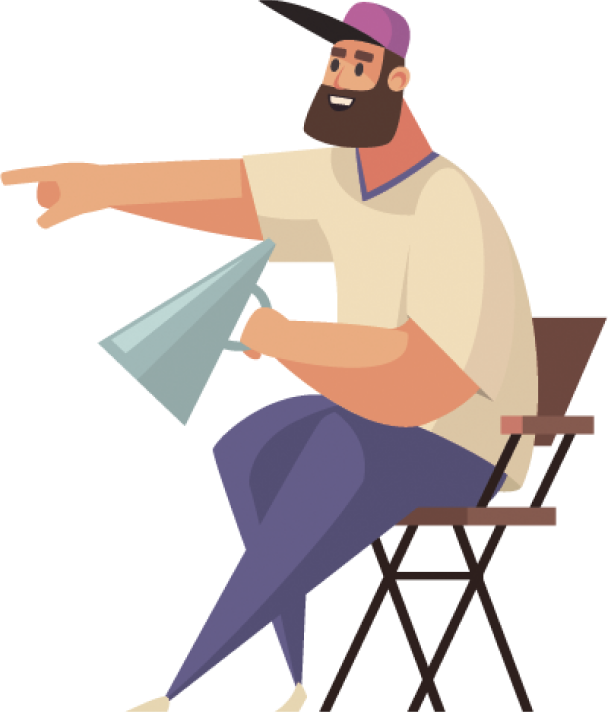
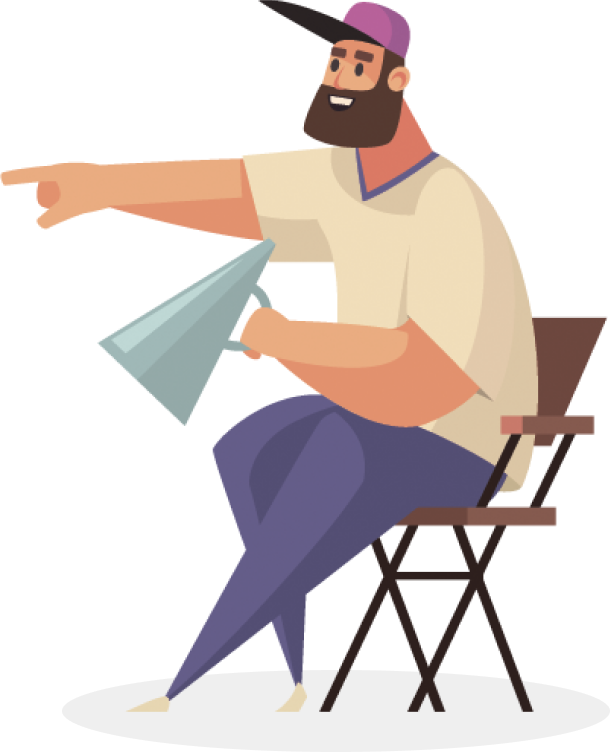
HowToWatchMovie Project (not completed)

Changed region(s): [[0.0, 0.0, 1.0, 1.0], [0.8125, 0.2781, 0.8438, 0.3399], [0.7812, 0.2472, 0.8125, 0.2781]]

diff --git a/index.html b/index.html
@@ -38,7 +38,6 @@
             </div>
             <div class="shadow-position">
                 <img src="./images/person.png" alt="person" class="person-image">
-                <div class="image-shadow"></div>
             </div>
         </div>
         <div class="center-div">
@@ -62,13 +61,11 @@
                 </div>
                 <div class="shadow-position">
                     <img src="./images/person2.png" alt="person2" class="person-2-image">
-                    <div class="image-shadow shadow-size"></div>
                 </div>
             </div>
             <div class="course-second-flex">
                 <div class="shadow-position position-size position-flex-size">
                     <img src="./images/person3.png" alt="person3" class="person-3-image">
-                    <div class="image-shadow shadow-size-2"></div>
                 </div>
                 <div class="course-date-flex">
                     <div class="course-date-div">

diff --git a/css/style.css b/css/style.css
@@ -29,7 +29,7 @@ header{
 
 .header-main-div{
     display: flex;
-    width: 75%;
+    width: 91%;
     justify-content: space-between;
 }
 
@@ -74,27 +74,9 @@ h1{
     font-size: 30px;
 }
 
-.shadow-position{
-    position: relative;
-    margin-right: 100px;
-}
-
 .person-image{
-    position: absolute;
-    z-index: 1;
     width: 404px;
     height: 480px;
-}
-
-.image-shadow{
-    position: absolute;
-    bottom: -78px;
-    left: 20px;
-    z-index: 0;
-    background-color: #EFEFEF;
-    width: 374px;
-    height: 50px;
-    clip-path: ellipse(49% 50% at 50% 50%);
 }
 
 .center-div{
